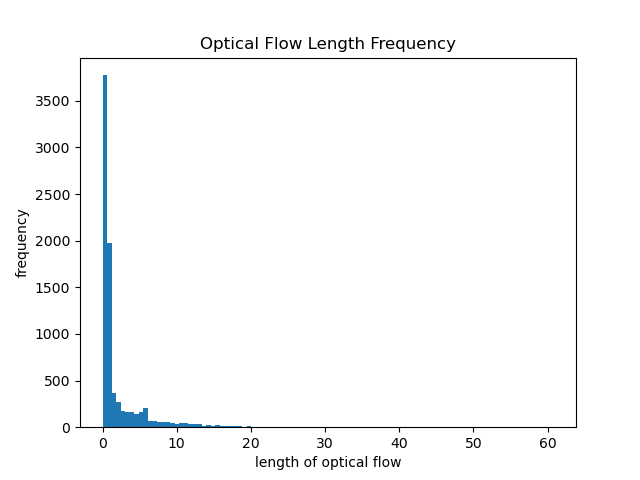
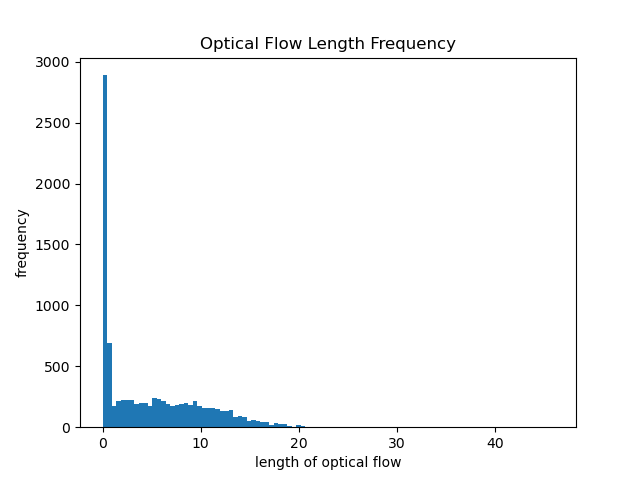
process blur and etc

diff --git a/LK3_classification.py b/LK3_classification.py
@@ -1,0 +1,250 @@
+"""
+resource : https://github.com/opencv/opencv/blob/3.4/samples/python/tutorial_code/video/optical_flow/optical_flow.py
+"""
+
+from cProfile import label
+from itertools import count
+from turtle import st
+from cv2 import waitKey
+from matplotlib.pyplot import draw, gray, plot
+import numpy as np
+import cv2 as cv
+import argparse
+import imutils
+import matplotlib.pyplot as plt
+import pandas as pd
+
+NumOfDot = 30
+Wid = 960
+
+np.set_printoptions(threshold=np.inf)
+
+parser = argparse.ArgumentParser(description='This sample demonstrates Lucas-Kanade Optical Flow calculation. \
+                                              The example file can be downloaded from: \
+                                              https://www.bogotobogo.com/python/OpenCV_Python/images/mean_shift_tracking/slow_traffic_small.mp4')
+parser.add_argument('image', type=str, help='path to image file')
+args = parser.parse_args()
+
+cap = cv.VideoCapture(args.image)
+
+# Check success
+if not cap.isOpened():
+    raise Exception("Could not open video device")
+
+# params for ShiTomasi corner detection
+feature_params = dict( maxCorners = NumOfDot,
+                       qualityLevel = 0.3,
+                       minDistance = 7,
+                       blockSize = 7 )
+
+# Parameters for lucas kanade optical flow
+lk_params = dict( winSize  = (15, 15),
+                  maxLevel = 2,
+                  criteria = (cv.TERM_CRITERIA_EPS | cv.TERM_CRITERIA_COUNT, 10, 0.03))
+
+# Create some random colors
+color = np.random.randint(0, 255, (NumOfDot, 3))
+
+def unit_vector(vector):
+    """ Returns the unit vector of the vector.  """
+    return vector / np.linalg.norm(vector)
+
+def angle_between(v1, v2):
+    """ Returns the angle in radians between vectors 'v1' and 'v2'::
+
+            >>> angle_between((1, 0, 0), (0, 1, 0))
+            1.5707963267948966
+            >>> angle_between((1, 0, 0), (1, 0, 0))
+            0.0
+            >>> angle_between((1, 0, 0), (-1, 0, 0))
+            3.141592653589793
+    """
+    v1_u = unit_vector(v1)
+    v2_u = unit_vector(v2)
+    angle = np.arccos(np.clip(np.dot(v1_u, v2_u), -1.0, 1.0)) / np.pi * 180
+    if v1[1] < 0:
+        angle = 360 - angle
+
+    return angle
+
+# Line Segment Class
+class Line:
+    def __init__(self, start=[0, 0], stop=[0, 0]):
+        self.start = np.array(np.multiply(start, [1, -1])) 
+        self.stop = np.array(np.multiply(stop, [1, -1]))
+        self.vector = np.subtract(self.stop, self.start)
+        self.length = np.round(np.linalg.norm(self.vector), 2)
+        self.angle = angle_between(self.vector, [1, 0])
+
+    def get_info(self):
+        print(str(self.length) + '\t\t' + str(self.angle))
+        # print(str(self.start) + '\t\t'  + str(self.stop) + '\t\t'  + str(self.vector) + '\t\t' + str(self.length) + '\t\t' + str(self.angle))
+
+def checkInside(pt, mask = [], st = []):
+    status = []
+    for id in range(len(pt)):
+        if st[id,0] == 0:
+            status.append([0])
+        else:
+            status.append([mask[round(pt[id,0,1]), round(pt[id,0,0])] > 0])
+    return np.array(status)
+
+def process_img(frame, mask):
+    test = cv.cvtColor(frame, cv.COLOR_BGR2GRAY)
+    # test = np.bitwise_and(test, mask)
+    # test = cv.GaussianBlur(test, (3, 3), 0)
+    # test = cv.threshold(test, 150, 255, cv.THRESH_BINARY)[1]
+    # test = cv.erode(test, None, iterations=2)
+    # test = cv.dilate(test, None, iterations=4)
+    return test
+    
+# Take first frame and find corners in it
+def Run():
+    ret, old_frame = cap.read()
+    ratio = cap.get(cv.CAP_PROP_FRAME_HEIGHT)/cap.get(cv.CAP_PROP_FRAME_WIDTH)
+    Hei = Wid*ratio
+    old_frame = imutils.resize(old_frame, width=int(Wid))
+    
+    # Detection Bound
+    bounds = dict(
+        outerL= int(Wid*0.1),
+        outerU= int(Hei*0.65),
+        outerR= int(Wid*0.9),
+        outerD= int(Hei*0.85),
+        innerL= int(Wid*0.3),
+        innerU= int(Hei*0.65),
+        innerR= int(Wid*0.7),
+        innerD= int(Hei*0.65),
+    )
+
+    mask_points = np.array([
+                    # [bounds["outerL"], bounds["outerU"]], 
+                    [bounds["outerL"], bounds["outerD"]], 
+                    [bounds["outerR"], bounds["outerD"]], 
+                    # [bounds["outerR"], bounds["outerU"]], 
+                    [bounds["innerR"], bounds["innerU"]], 
+                    # [bounds["innerR"], bounds["innerD"]], 
+                    # [bounds["innerL"], bounds["innerD"]], 
+                    [bounds["innerL"], bounds["innerU"]]])
+    
+    # cut a mask
+    mask = np.zeros(old_frame.shape[:2], dtype=np.uint8)
+    mask = cv.fillPoly(mask, [mask_points], 255)
+                                        
+    cv.imshow('frame', mask)
+    waitKey(0)
+
+    # old_gray = cv.cvtColor(old_frame, cv.COLOR_BGR2GRAY)
+    processed_old_frame = process_img(old_frame, mask)
+    
+    # p0 = cv.goodFeaturesToTrack(old_gray, mask = mask, **feature_params)
+    p0 = cv.goodFeaturesToTrack(processed_old_frame, mask = mask, **feature_params)
+
+    # Create a mask image for drawing purposes
+    draw_mask = np.zeros_like(old_frame)
+    lines = []
+    lengths = []
+    count = 0
+
+    while(1):
+        ret, frame = cap.read()
+        if not ret:
+            print('No frames grabbed!')
+            cv.destroyAllWindows()
+            # exit()
+            break
+
+        frame = imutils.resize(frame, width=int(Wid))
+        processed_frame = process_img(frame, mask)
+        # frame_gray = cv.cvtColor(frame, cv.COLOR_BGR2GRAY)
+
+        # print(processed_old_frame.shape, processed_frame.shape)
+        # calculate optical flow
+        # p1, st, err = cv.calcOpticalFlowPyrLK(old_gray, frame_gray, p0, None, **lk_params)
+        p1, st, err = cv.calcOpticalFlowPyrLK(processed_old_frame, processed_frame, p0, None, **lk_params)
+
+        # Select good points
+        if p1 is not None:
+            # print(p1[,0,0])
+            filter = checkInside(p1, mask, st)
+            st[~filter] = 0
+            good_new = p1[st==1]
+            good_old = p0[st==1]
+
+        # draw the tracks
+        for i, (new, old) in enumerate(zip(good_new, good_old)):
+            a, b = new.ravel()
+            c, d = old.ravel()
+            
+            draw_mask = cv.line(draw_mask, (int(a), int(b)), (int(c), int(d)), color[i].tolist(), 2)
+            frame = cv.circle(frame, (int(a), int(b)), 8, color[i].tolist(), -1)
+            # processed_frame = cv.circle(processed_frame, (int(a), int(b)), 8, color[i].tolist(), -1)
+            
+            new_line = Line([c, d], [a, b])
+            lines.append(new_line)
+            lengths.append(lines[-1].length)
+
+        frame = cv.polylines(frame, [mask_points], True, (0, 0, 200), 3)
+        processed_frame = cv.polylines(processed_frame, [mask_points], True, (0, 0, 200), 3)
+                                                
+        img = cv.add(frame, draw_mask)
+        cv.imshow('frame', img)
+
+        processed_img = cv.add(cv.cvtColor(processed_frame, cv.COLOR_GRAY2BGR), draw_mask)
+        cv.imshow('processed_frame', processed_img)
+        
+
+        # for ele in lines:
+        #     ele.get_info()
+
+        k = cv.waitKey(30) & 0xff
+        if k == 27:
+            cv.destroyAllWindows()
+            break
+        elif k == 32:
+            while ((waitKey(0) & 0xff) != 32):
+                pass
+        elif k == 8:
+            draw_mask = np.zeros_like(old_frame)
+
+        # Now update the previous frame and previous points
+        processed_old_frame = processed_frame.copy()
+        # old_gray = frame_gray.copy()
+        p0 = good_new.reshape(-1, 1, 2)
+        print(len(p0))
+
+        if len(p0) < NumOfDot*0.2 or count == 50:
+        # if count == 50:
+            # print("\t", str(count))
+            # if (count == 50): 
+            count = 0
+            new = cv.goodFeaturesToTrack(processed_old_frame, mask = mask, **feature_params)
+            # new = cv.goodFeaturesToTrack(old_gray, mask = mask, **feature_params)
+            if new is None:
+                print("\t\t+ 0")
+                continue
+            
+            print("\t\t+", str(len(new)))
+            # p0 = new.reshape(-1, 1, 2)
+            p0 = np.append(p0, new).reshape(-1, 1, 2)
+            if (len(p0) > NumOfDot) :
+                print("\t\t-", str(len(p0) - NumOfDot))
+                p0 = p0[-NumOfDot:]
+
+        count += 1
+    
+
+    plt.title("Optical Flow Length Distribution")
+    plt.xlabel("time")
+    plt.ylabel("length of optical flow")
+    plt.scatter(range(len(lengths)), lengths, 3)
+    plt.show()
+
+    plt.title("Optical Flow Length Frequency")
+    plt.hist(lengths, label="frequency", bins=100)
+    plt.xlabel("length of optical flow")
+    plt.ylabel("frequency")
+    plt.show()
+
+
+Run()

diff --git a/LK2_road_line_detection.py b/LK2_road_line_detection.py
@@ -111,10 +111,10 @@ def Run():
         outerU= int(Hei*0.6),
         outerR= int(Wid*0.9),
         outerD= int(Hei*0.75),
-        innerL= int(Wid*0.45),
-        innerU= int(Hei*0.55),
-        innerR= int(Wid*0.55),
-        innerD= int(Hei*0.55),
+        innerL= int(Wid*0.4),
+        innerU= int(Hei*0.58),
+        innerR= int(Wid*0.6),
+        innerD= int(Hei*0.6),
     )
     
     # cut a mask
@@ -207,7 +207,7 @@ def Run():
             c, d = old.ravel()
             # print((a, b), (c, d))
             draw_mask = cv.line(draw_mask, (int(a), int(b)), (int(c), int(d)), color[i].tolist(), 2)
-            frame = cv.circle(frame, (int(a), int(b)), 5, color[i].tolist(), -1)
+            frame = cv.circle(frame, (int(a), int(b)), 8, color[i].tolist(), -1)
             # draw_mask = cv.line(draw_mask, (int(a+bounds["outerL"]), int(b+bounds["outerU"])), (int(c+bounds["outerL"]), int(d+bounds["outerU"])), color[i].tolist(), 2)
             # frame = cv.circle(frame, (int(a+bounds["outerL"]), int(b+bounds["outerU"])), 5, color[i].tolist(), -1)
 
@@ -221,8 +221,7 @@ def Run():
                                                 [bounds["outerR"], bounds["outerD"]], 
                                                 [bounds["outerR"], bounds["outerU"]], 
                                                 [bounds["innerR"], bounds["innerU"]], 
-                                                [bounds["innerL"], bounds["innerU"]], 
-                                                [bounds["outerL"], bounds["outerU"]]])], False, (0, 0, 200), 3)
+                                                [bounds["innerL"], bounds["innerU"]]])], True, (0, 0, 200), 3)
         # frame = cv.rectangle(frame, (bounds["innerL"], bounds["innerU"]), (bounds["innerR"], bounds["innerD"]), (0, 0, 200), 3)
         img = cv.add(frame, draw_mask)
         
@@ -243,7 +242,7 @@ def Run():
         p0 = good_new.reshape(-1, 1, 2)
         # count += 1
         print(len(p0))
-        if len(p0) < NumOfDot/4 :
+        if len(p0) < NumOfDot/3 :
         # if count >= 30:
             # print(count)
             # count = 0
